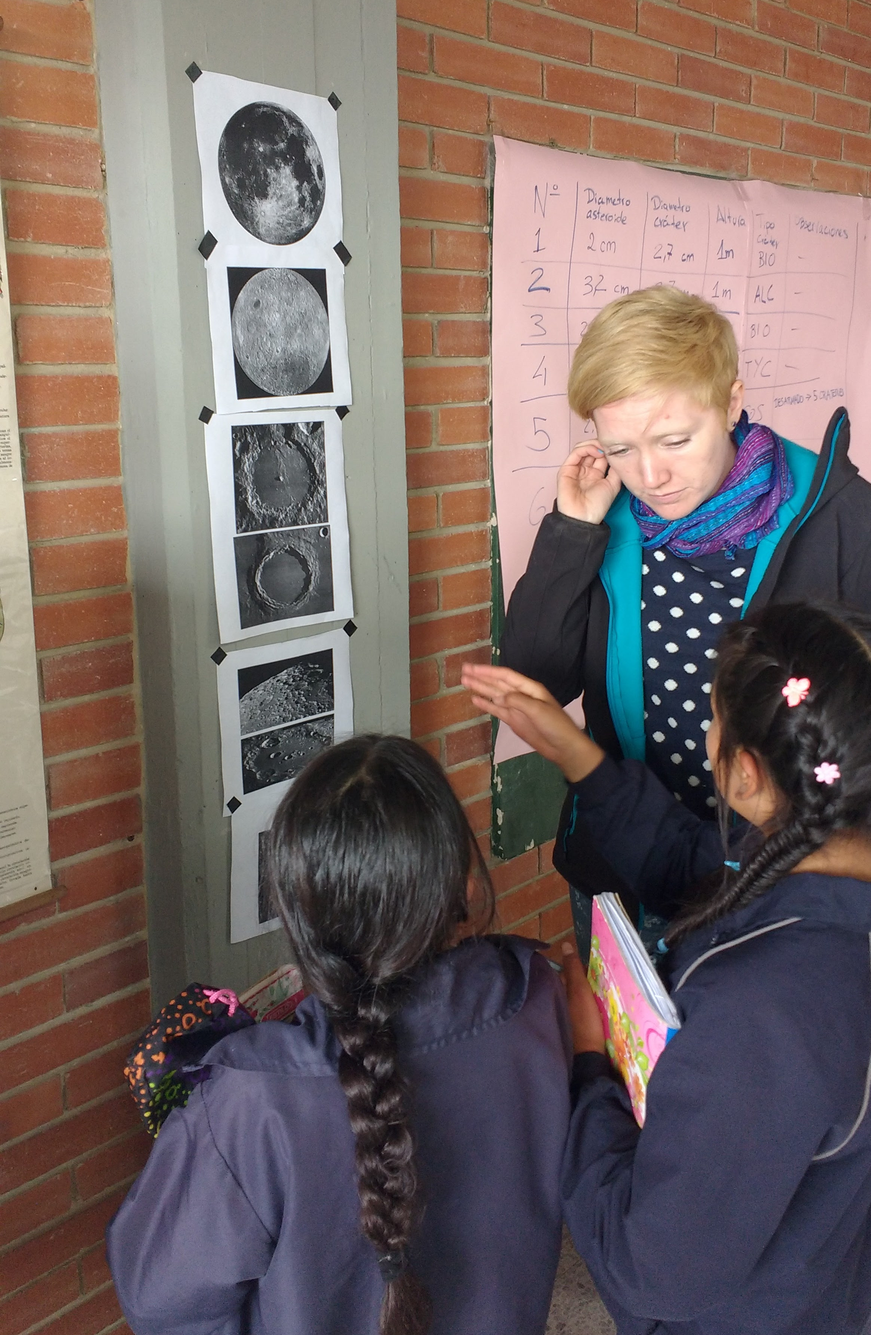
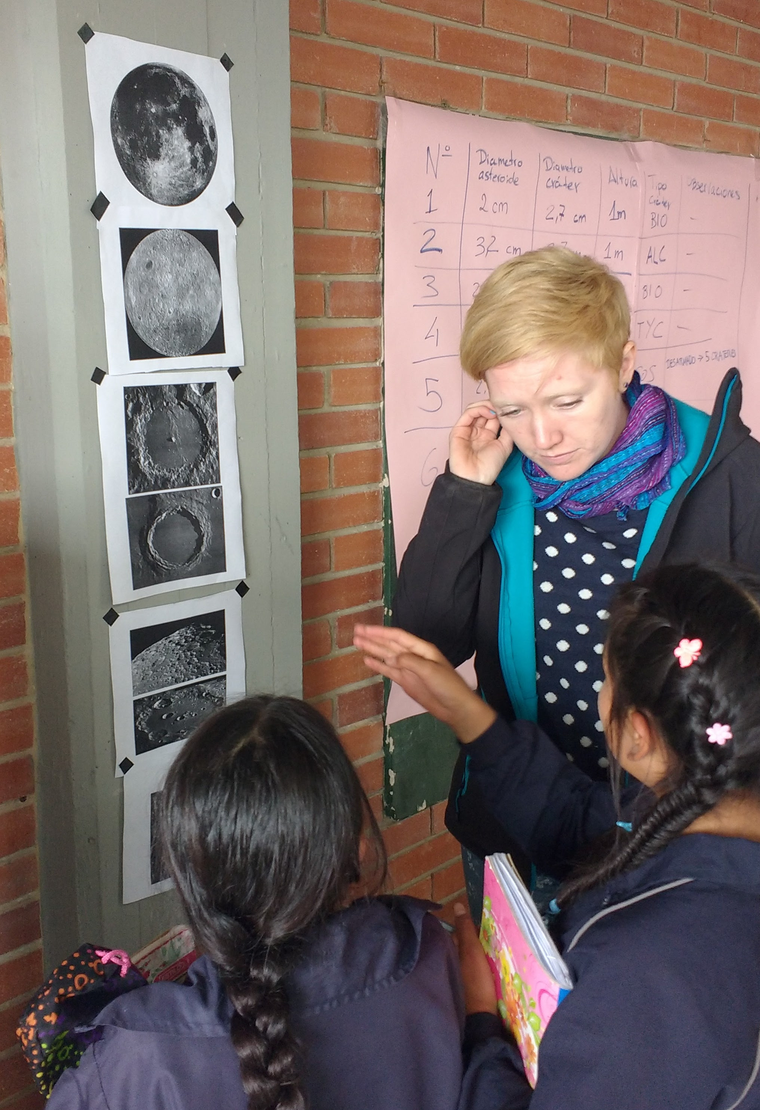
Low res. pictures and links to high res. added

diff --git a/communications/pampuri_details.html b/communications/pampuri_details.html
@@ -18,12 +18,27 @@ title: Campus Pampuri
 <ul>
   <p>
   <b>Activities </b>
+
+<figure>
+<a href="images/grainne_showing_lunarcraters.jpg"> <img src="images/grainne_showing_lunarcraters_lowres.jpg" alt="Discussing Lunar Craters." style="width:250px;padding-left:5em;padding-right:5em";> </a>
+<figcaption>Gráinne discusing lunar craters with students..</figcaption>
+</figure>
+
+
+
   <ul>
   <li type="square"> Size and distance of moon. For this activity we had a model earth (on our case a blow up globe) and a smaller plastic ball (of roughly the correct size) for the moon. We asked the kids if the earth is this size, what size would the moon be. We then asked them how far the moon is from the earth if they are both this size, and slowly walked to the other side of the room. For this we used volunteers to hold earth and moon.</li> 
   <li type="square"> Rotation of the moon around the earth. Here we asked one child to hold the earth and the other the moon. The moon child then had to slowly walk around the earth as the earth child rotated. The Moon could only finish their orbit when the earth had rotated 27 times (swapping the earth child half way through is a good idea). The entire class was then asked to call out the rotations of the earth child as they completed each one. This got the kids excited and worked well in getting them to remember how long it took the moon to orbit the earth.  </li>
   <li type="square"> Phases of the moon. Here we asked every one to stand in the center of the class room around the earth ball. One of us then orbited around the earth with the moon and a torch. </li>
   <li type="square"> Ordering the moon phases. Here we presented each group of children with nine cards each with a showing different lunar phase. For the younger classes it involved just matching the shapes. However for the older classes we drew their attention to the crates on the surface and encouraged them to match the phases using these features i.e. not to mix up the waxing and waning phases. </li>
   </ul>
+
+
+
+
+
+
+
   </p>
 <p>
   <b> Thoughts and Improvements </b>
@@ -57,7 +72,7 @@ We began by talking about the formation of the solar system, starting from small
 
 
 <figure>
-<img src="images/measurement_table.jpg" alt="Measurement Table." style="float:left;width:700px;padding-left:5em;padding-right:5em";>
+<a href="images/measurement_table.jpg"> <img src="images/measurement_table_lowres.jpg" alt="Measurement Table." style="width:450px;padding-left:5em;padding-right:5em";> </a>
 <figcaption> Measurement Table.</figcaption>
 </figure>
 
@@ -84,17 +99,25 @@ We began by talking about the formation of the solar system, starting from small
 <b> Class III. </b>
 During this class we went over what we completed in the previous class, why we did it and what we found. We then began to plot the data on the board as they drew their own graphs. This took time as the younger classes had not done a lot of this. However we were successful. We called volunteers up to the board to mark the data points, asking the rest of the class to make sure the data point was in the correct position. We then discussed what we could learn from the graph i.e. bigger asteroids make bigger craters, or bigger craters come from bigger asteroids. 
 
+
+
+
 After completing the graph, we began filling in the scientific report. For this we made up a four page outline for the class which included, introduction, method, results with table and graph, images of craters compared to lunar craters and conclusions. Talking our way through the different sections, and filling them out together took some time, but I think this was very useful to cement the ideas for the children and to get them to think about the concepts again. 
+
+
+
+<figure>
+<a href= "images/Reportaje_5.jpg"> <img src="images/Reportaje_5_lowres.jpg" alt="Image of front page of class report." style="width:500px;padding-left:1em;padding-right:1em";> </a>
+<figcaption> Image of front page of the class report.</figcaption>
+</figure>
+
+
 
 <ul>
 <b> Reports </b>
 <li type="square" > A copy of the class report can be found <a href="reportajes/Reportaje_5.pdf"> here </a>(given to class) and <a href="reportajes/Reportaje_4_withData.pdf"> here </a>(with data). Both in Spanish. One was given to each child. They glued their graph of the measurements into the report, and filled out the table. The rest of the report was then filled out together.  </li>
 </ul>
 
-<figure>
-<img src="images/Reportaje_5.jpg" alt="Image of front page of class report." style="width:500px;padding-left:15em;padding-right:15em";>
-<figcaption> Image of front page of the class report.</figcaption>
-</figure>
 
 
 
@@ -103,8 +126,18 @@ After completing the graph, we began filling in the scientific report. For this 
 <li type="square" > A few of the children did very well in coming up with very good conclusions from the experiments. Other children really struggled, and did not seem to be able to come up or think of the conclusions themselves. Perhaps having more time for this class would have been helpful. </li>
 </ul>
 
+
 </p>
 
+
+
+
+
+
+
+</br>
+</br>
+</br>
 
 
 <h3> Finding planets </h3>
@@ -127,7 +160,7 @@ We talked shortly about transits again this time bringing in the idea of viewing
 
 
 <figure>
-<img src="images/drawings_from_the_youngest.jpg" alt="Solar system drawings" style="float:left;width:700px;padding-left:5em;padding-right:5em";>
+<a href="images/drawings_from_the_youngest.jpg" > <img src="images/drawings_from_the_youngest_lowres.jpg" alt="Solar system drawings" style="width:600px;padding-left:5em;padding-right:5em";> </a>
 <figcaption> Drawings from the youngest class (age 5-6) on the solar system.</figcaption>
 </figure>
 

diff --git a/communications/index.html b/communications/index.html
@@ -15,7 +15,7 @@ In October 2016, I got a wonderful opportunity with a colleague (<a href="http:/
 The school management were very accommodating, and enthusiastic, and rearranged the entire school schedule so that we would have time to work with every class from 6 years to 12 years old. 
 
 <figure>
-<img src="images/view_from_school.jpg" alt="View from Campus Pampuri across Bogotá." style="width:300px;padding-left:1em;padding-right:1em";>
+<a href= "images/view_from_school.jpg">  <img src="images/view_from_school_lowres.jpg" alt="View from Campus Pampuri across Bogotá." style="width:300px;padding-left:1em;padding-right:1em";> </a>
 <figcaption> View from Campus Pampuri across Bogotá.</figcaption>
 </figure>
 
@@ -41,7 +41,7 @@ The most successful classes of the programme were making and measuring lunar cra
 
 <p> 
 <figure>
-<img src="images/crater.jpg" alt="Crater in our lunar surface." style="width:300px;padding-left:1em;padding-right:1em">
+<a href= "images/crater.jpg"> <img src="images/crater_lowres.jpg" alt="Crater in our lunar surface." style="width:300px;padding-left:1em;padding-right:1em"> </a>
 <figcaption> Crater in our lunar surface made of flour and cocoa.</figcaption>
 </figure>
 </p>
@@ -72,7 +72,7 @@ In designing and planning these activities I found the educational resource of <
 </p>
 
 <figure>
-<img src="images/asteroids.jpg" alt="Plasticine asteroids." style="width:300px;padding-left:1em;padding-right:1em">
+<a href="images/asteroids.jpg"> <img src="images/asteroids_lowres.jpg" alt="Plasticine asteroids." style="width:300px;padding-left:1em;padding-right:1em"> </a>
 <figcaption> Plasticine Asteroids.</figcaption>
 </figure>
 
